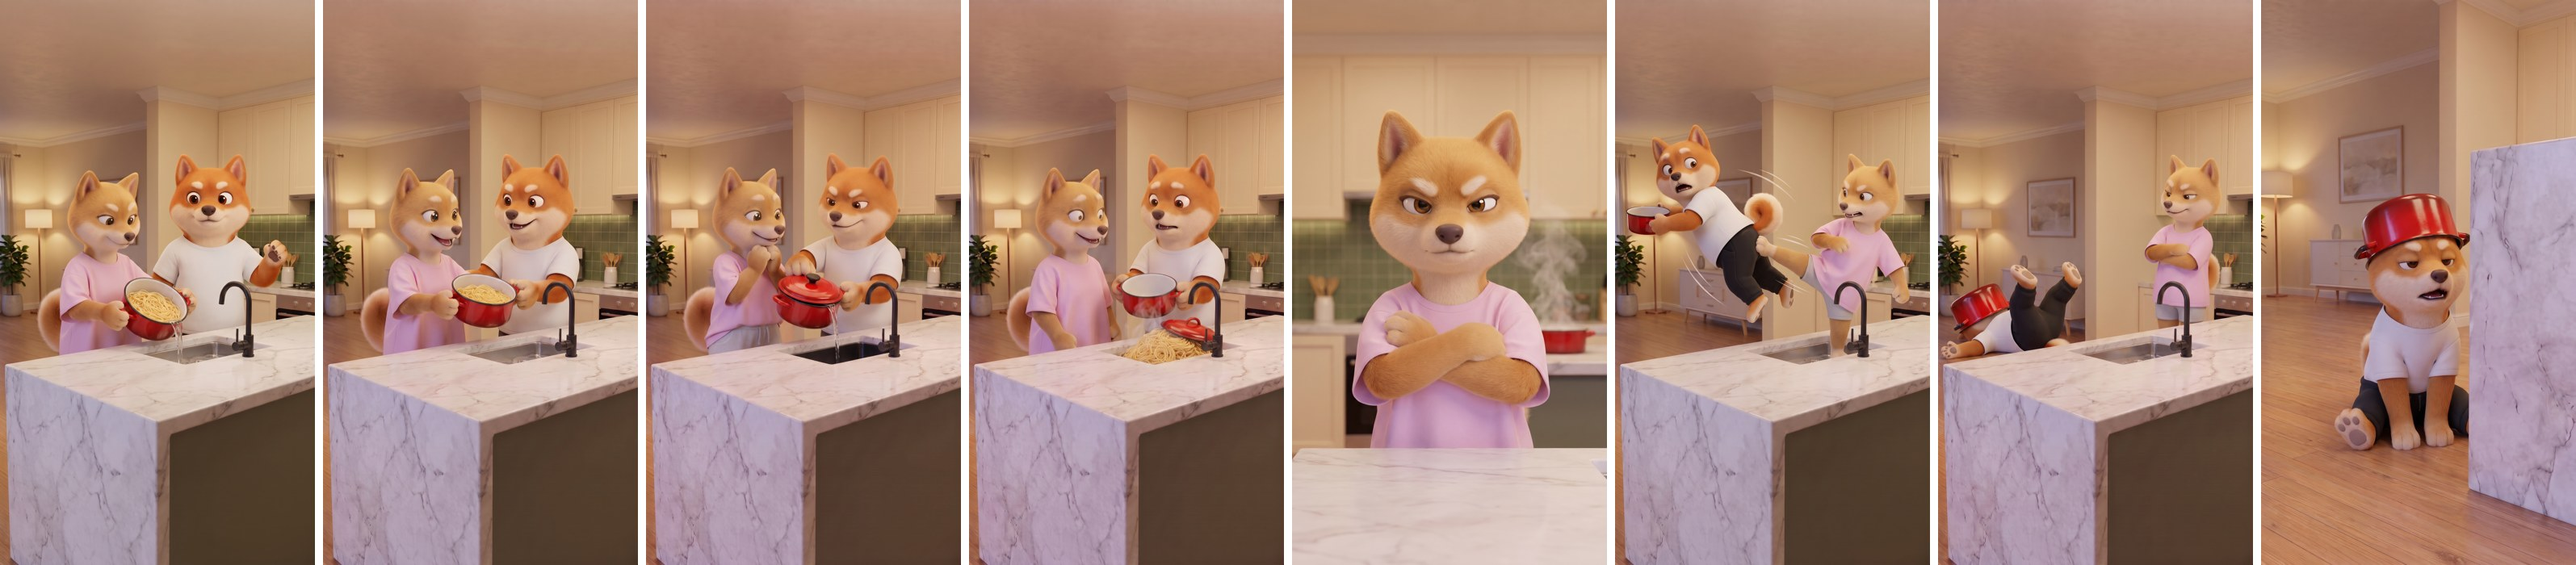
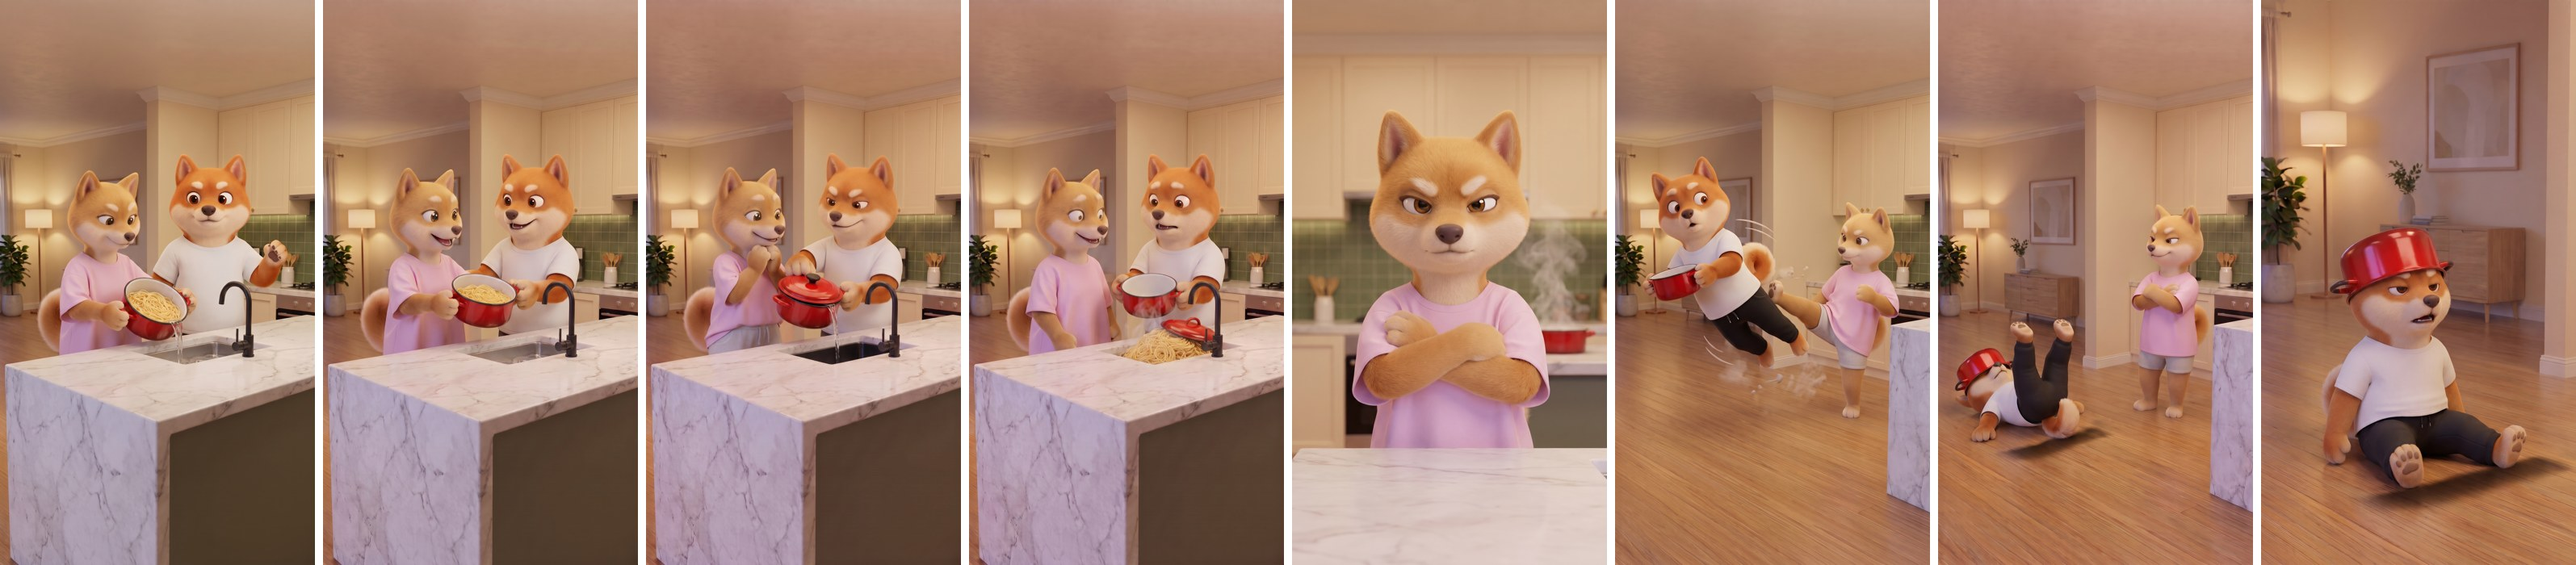
Pasta remake: kick restaged in open floor, landing and close-up match
Claude-Session: https://claude.ai/code/session_01LDc9S6T3fQU2rZjsRh7sGC

Changed region(s): [[0.6207, 0.0, 1.0, 1.0]]

diff --git a/daily/2026-11-15/pasta-storyboard.md b/daily/2026-11-15/pasta-storyboard.md
@@ -84,3 +84,6 @@ Rejected: 2e8d53e1 + ab83f937 (outfits drifted to the reference-sheet sweater/ca
 Stills spent so far: about 106 credits.
 Landing fix (user: he didn't land in a place that made sense): 7 wide landing, same camera as the kick, Kenji crashed far left by the lamp and plant, Yuki arms crossed behind the island: cbf51f72-706d-4d35-84bc-97c5d56cb2d5 · 8 close-up of Kenji with the lamp and plant behind him for "Well... that worked.": f40d8a51-b094-4516-abfe-0b6820c37f9d (replaces 8f2071be). Stills total ≈ 110 credits.
 Landing fix 2 (user: flight direction didn't match the landing): 7 = 75515716-a0b2-470e-8dda-e80b07191118 (lands left of the island at the same depth he flew) · 8 = cb648b1a-a462-4c10-96d7-a08311d7cc76 (close-up at that spot, island side + sideboard/lamp behind). Stills total ≈ 114 credits.
+Kick restaged (user: Yuki looked like she was standing in the sink): the kick now happens on the open floor LEFT of the island, clear of the sink.
+6 kick add5d6cd-c9ec-47b3-910d-e8e5387e7d95 · 7 landing (same camera, Yuki in the same spot, Kenji on his back on the floor at left, pot on head) 8a00ac5f-9684-48e7-b085-c2e0fda8fded · 8 close-up at that spot (sideboard/lamp/plant behind, no island) 425114a1-d22a-4f3c-9186-938b6a8292f9
+Rejected: 02e91cc9 (Yuki behind the counter, camera moved) · 9eaee2c1 (Kenji still mid-air) · cb648b1a/75515716 (old staging). Stills total ≈ 124 credits.
